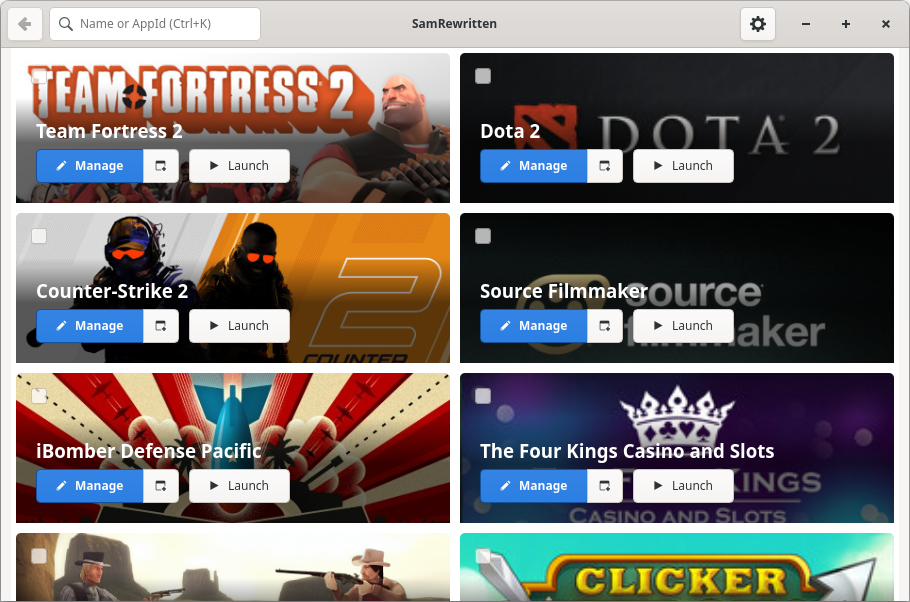
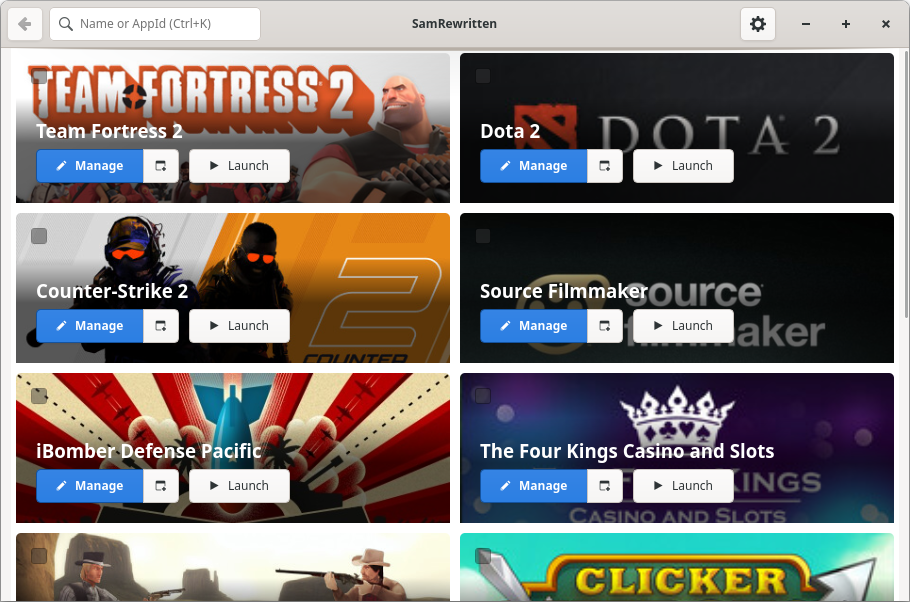
fix(gui): Fix layout issues on software rendering mode

diff --git a/src/gui_frontend/widgets/shimmer_image.rs b/src/gui_frontend/widgets/shimmer_image.rs
@@ -76,6 +76,8 @@ mod imp {
         pub receiver: RefCell<Option<Receiver<Texture>>>,
         pub texture: RefCell<Option<Texture>>,
         pub texture_size_ratio: Cell<f32>,
+        #[property(get, set)]
+        pub placeholder_height: Cell<i32>,
     }
 
     #[glib::object_subclass]
@@ -205,33 +207,50 @@ mod imp {
 
         fn measure(&self, orientation: gtk::Orientation, for_size: i32) -> (i32, i32, i32, i32) {
             let ratio = self.texture_size_ratio.get();
-            let min_width = self.obj().width_request();
+            let request_width = self.obj().width_request();
+            let request_height = self.obj().height_request();
 
             if orientation == gtk::Orientation::Horizontal {
                 // How wide should we be?
                 let width = if for_size < 0 {
-                    min_width
+                    request_width
                 } else {
                     // Height is known, calculate Width: W = H * ratio
                     (for_size as f32 * ratio) as i32
                 };
-                (width, width, -1, -1)
+
+                // Ensure we never report a natural size smaller than our minimum request
+                let min_w = request_width.max(16);
+                let nat_w = width.max(min_w);
+
+                (min_w, nat_w, -1, -1)
             } else {
                 // How tall should we be?
                 if self.loaded.borrow().is_none() {
-                    // If we're not loaded, just allow any requested height
-                    let height = self.obj().height_request();
-                    return (height, height, -1, -1);
+                    let min_h = request_height.max(16);
+                    let placeholder_h = self.placeholder_height.get();
+                    let nat_h = if placeholder_h > 0 {
+                        placeholder_h
+                    } else {
+                        min_h
+                    };
+                    return (min_h, nat_h, -1, -1);
                 }
 
                 let height = if for_size < 0 {
-                    // Width is unknown, calculate height from our minimum width
-                    (min_width as f32 / ratio) as i32
+                    (request_width as f32 / ratio) as i32
                 } else {
-                    // Width is known (for_size), calculate Height: H = W / ratio
-                    (for_size as f32 / ratio) as i32
+                    if request_width > 0 && for_size > request_width {
+                        request_height
+                    } else {
+                        (for_size as f32 / ratio) as i32
+                    }
                 };
-                (height, height, -1, -1)
+
+                let min_h = request_height.max(16);
+                let nat_h = height.max(min_h);
+
+                (min_h, nat_h, -1, -1)
             }
         }
     }

diff --git a/src/gui_frontend/widgets/steam_app_card.rs b/src/gui_frontend/widgets/steam_app_card.rs
@@ -70,6 +70,9 @@ mod imp {
             let obj = self.obj();
 
             // 1. Setup Base Layout
+            // 200 is hardcoded because we set a height request on the card
+            // Ideally, you want the value to be obj.height + 5
+            self.image.set_placeholder_height(200);
             self.filler_box.set_vexpand(true);
             self.main_layout.set_orientation(Orientation::Vertical);
             self.main_layout.append(&self.image);
@@ -160,6 +163,7 @@ mod imp {
             self.bottom_container.append(&button_row);
 
             // 6. Setup Checkbox (Top Left)
+            self.check_button.add_css_class("osd");
             self.check_button.set_halign(gtk::Align::Start);
             self.check_button.set_valign(gtk::Align::Start);
             self.check_button.set_margin_top(15);
@@ -193,7 +197,7 @@ mod imp {
                     .and_then(|val| val.get::<bool>().ok())
                     .unwrap_or(false);
 
-                let opacity = if is_selected { 1.0f64 } else { 0.7f64 };
+                let opacity = if is_selected { 1.0f64 } else { 0.5f64 };
                 Some(opacity.to_value())
             });
 
